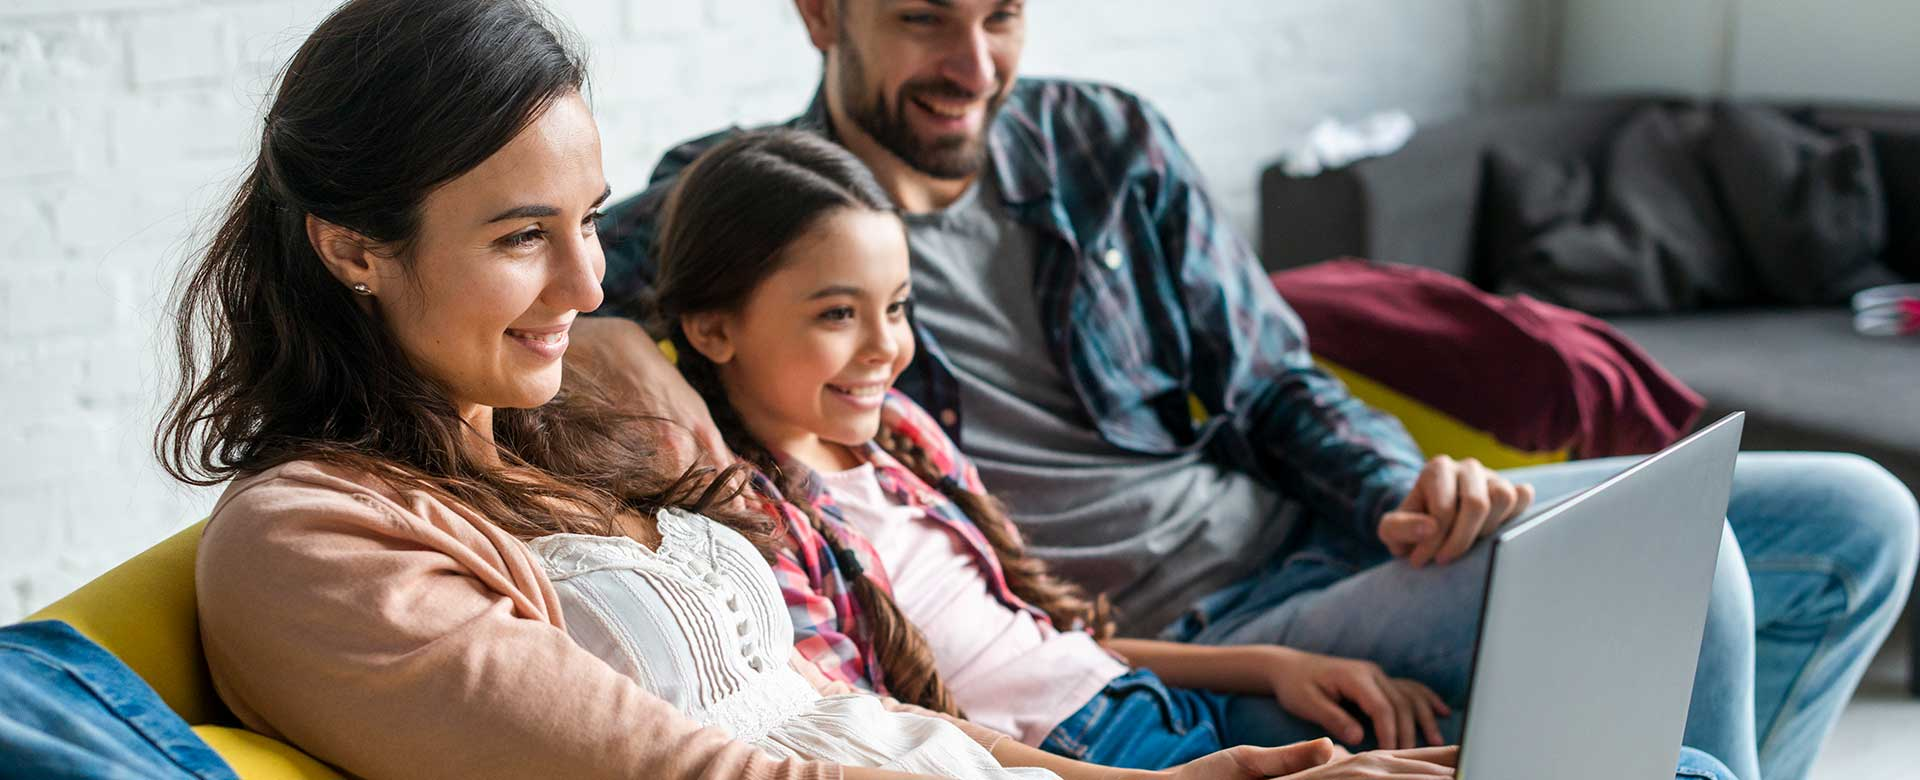
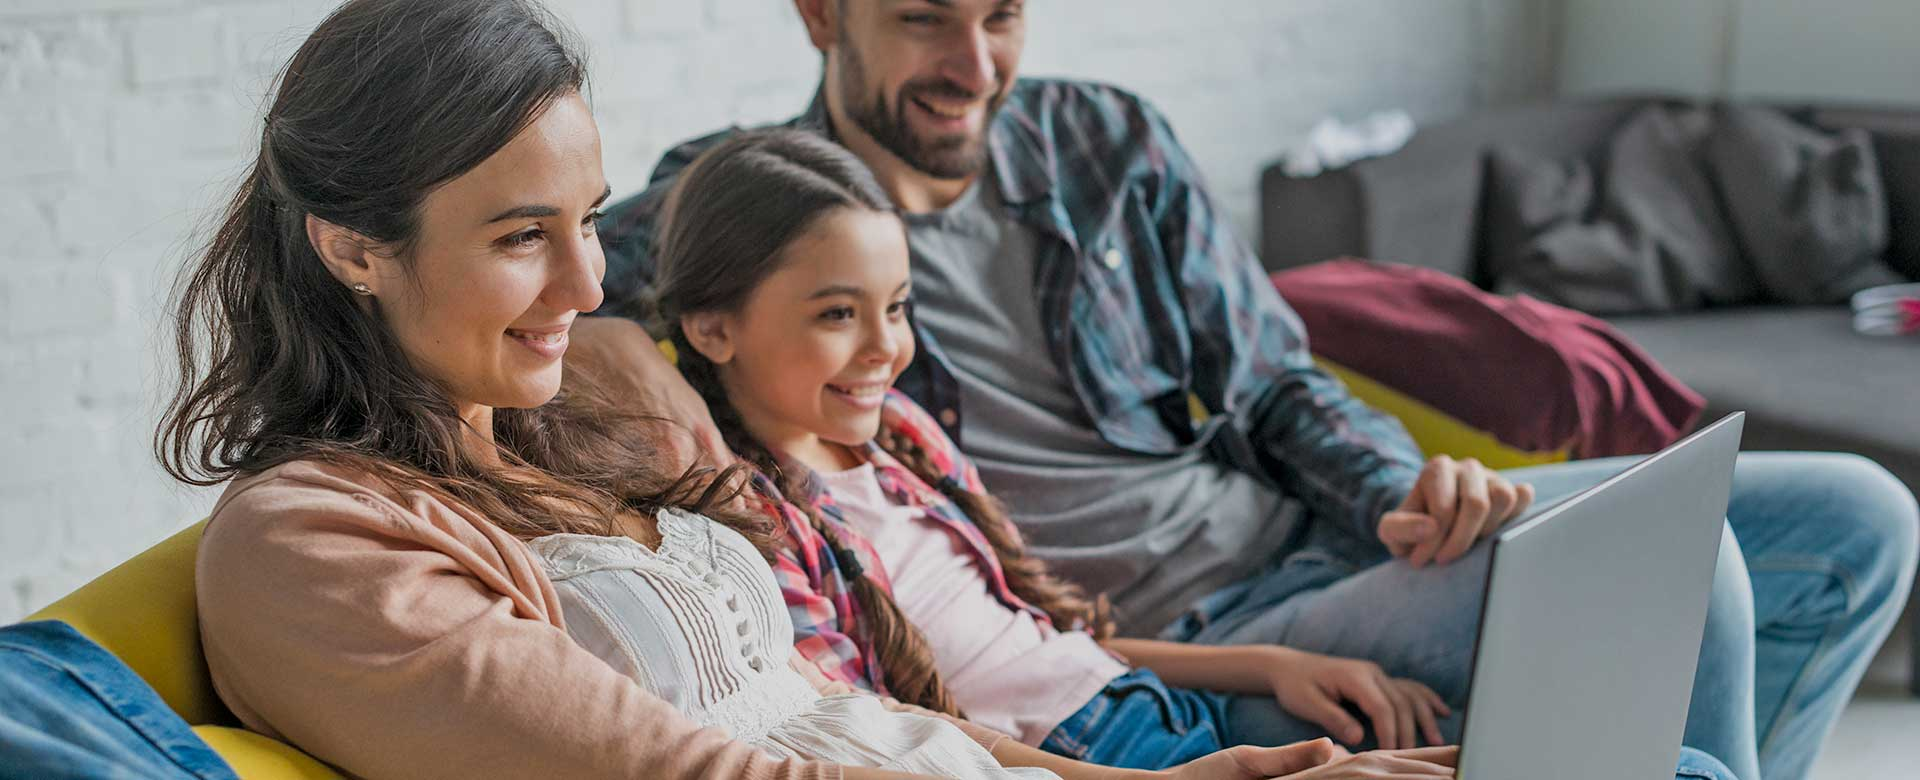
darker hero

diff --git a/styles.css b/styles.css
@@ -48,6 +48,7 @@ body {
     background-size: cover;
     background-position: top;
     background-repeat: no-repeat;
+    margin-bottom: 8rem;
   }
 
   @media (max-width: 768px) {
@@ -114,8 +115,15 @@ body {
   }
 
   .color2 {
-      background: #44cbf4;
+    padding-top: 4rem;  /* or 3rem, depending on spacing needs */
+    padding-bottom: 4rem;
+    background: #44cbf4;
   }
+
+  .color2 h2,
+.color2 p {
+  color: white;
+}
 
   .center {
     max-width: 1000px;
@@ -538,4 +546,53 @@ html {
     box-shadow: 0 4px 10px rgba(0, 0, 0, 0.1);
     border-top: 1px solid #ddd;
   }
+}
+
+.navbar.transparent .nav-link {
+  color: white !important;
+}
+
+.navbar.scrolled .nav-link {
+  color: black !important;
+}
+
+section:first-of-type {
+  border-top: none;
+}
+
+section h2 {
+  font-size: 32px;        /* larger main title */
+  font-weight: 700;       /* bold */
+  margin-bottom: 0.5rem;
+}
+
+section h3 {
+  font-size: 20px;        /* larger subtitle */
+  font-weight: 500;       /* semi-bold (adjust as needed) */
+  margin-bottom: 1rem;
+}
+
+section p {
+  margin-top: 1.5rem;   /* spacing above each paragraph */
+  margin-bottom: 1.5rem; /* spacing below each paragraph */
+  font-size: 20px;       /* optional: keep or adjust font size */
+  line-height: 1.2;      /* improves readability */
+}
+
+
+.hero-text h1 {
+  font-size: 72px;        /* Much larger */
+  font-weight: 800;       /* Bold */
+  color: white;           /* White text */
+  margin-bottom: 20px;
+  text-align: center;
+  text-shadow: 1px 1px 5px rgba(0, 0, 0, 0.3); /* Optional: subtle glow for contrast */
+}
+
+.hero-text p {
+  font-size: 28px;        /* Larger subtitle */
+  color: white;
+  text-align: center;
+  font-weight: 400;
+  text-shadow: 1px 1px 4px rgba(0, 0, 0, 0.3); /* Optional */
 }

diff --git a/index.html b/index.html
@@ -46,15 +46,21 @@
       </div>
     </nav>
     <div class="hero-text">
-      <h1>MARVIFY</h1>
-      <p>här står marvify's slogan</p>
+      <h1>Sälj med 3D</h1>
+      <p>Lorem ipsum dolor sit amet, consectetur adipiscing elit.</p>
     </div>
     <div class="scroll-indicator" id="scrollToOm">
-        <div class="circle-bg"></div>
-        <svg class="arrow-icon" viewBox="0 0 24 24" fill="none">
-          <path d="M6 9L12 15L18 9" stroke="#000" stroke-width="2" stroke-linecap="round" stroke-linejoin="round"/>
-        </svg>
-      </div>
+      <div class="circle-bg"></div>
+      <svg class="arrow-icon" viewBox="0 0 24 24" fill="none">
+        <path
+          d="M6 9L12 15L18 9"
+          stroke="#fff"
+          stroke-width="6"
+          stroke-linecap="round"
+          stroke-linejoin="round"
+        />
+      </svg>
+    </div>
   </header>
 
   <section id="om" class="white">
@@ -80,7 +86,7 @@
         <div class="col">
             <h2>Testa själv!</h2>
             <h3>Klicka och dra för att se runt. Zooma med scrollhjul eller fingrar.</h3>
-            <p>Upplev känslan av FOTO-3D i praktiken. Här kan du interagera direkt med en produkt i 3D – rotera, zooma och se den från alla vinklar, direkt i webbläsaren.</p>
+            <p>Upplev FOTO-3D i praktiken. Här kan du interagera direkt med en produkt i 3D – rotera, zooma och se den från alla vinklar, direkt i webbläsaren.</p>
           
             <p>Ingen app, blixtsnabb laddningstid – bara en smidig och naturlig upplevelse som visar vad FOTO-3D kan göra för dina produkter.</p>
           </div>

diff --git a/script.js b/script.js
@@ -110,7 +110,7 @@ document.addEventListener("DOMContentLoaded", () => {
 });
 
 document.addEventListener("DOMContentLoaded", () => {
-  const sections = document.querySelectorAll("section");
+  const sections = document.querySelectorAll("section, .hero");
 
   function updateDimming() {
     const viewportHeight = window.innerHeight;
